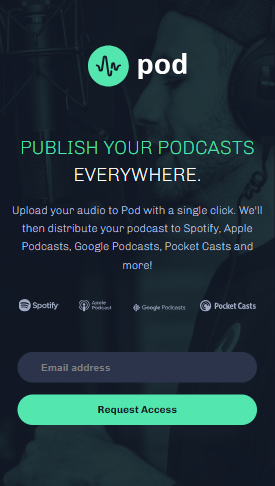
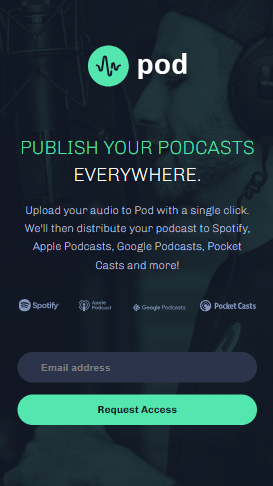
🔧 Fix SVG color and main top padding
- add logo class to logo SVG imgs and filter property to edit SVG colours to match design
- edit main transform property to move slightly further up
- update solution images

diff --git a/index.html b/index.html
@@ -67,7 +67,7 @@
               <img
                 src="assets/desktop/spotify.svg"
                 alt="spotify logo"
-                class="logos--spotify--mob"
+                class="logos--spotify--mob logo"
               >
             </a>
             <a
@@ -78,7 +78,7 @@
               <img
                 src="assets/desktop/apple-podcast.svg"
                 alt="apple podcast logo"
-                class="logos--apple--mob"
+                class="logos--apple--mob logo"
               >
             </a>
             <a
@@ -89,7 +89,7 @@
               <img
                 src="assets/desktop/google-podcasts.svg"
                 alt="google podcasts logo"
-                class="logos--google--mob"
+                class="logos--google--mob logo"
               >
             </a>
             <a
@@ -100,7 +100,7 @@
               <img
                 src="assets/desktop/pocket-casts.svg"
                 alt="pocket casts logo"
-                class="logos--pocketcasts--mob"
+                class="logos--pocketcasts--mob logo"
               >
             </a>
           </div>
@@ -165,7 +165,7 @@
               <img
                 src="assets/desktop/spotify.svg"
                 alt="spotify logo"
-                class="logos--spotify"
+                class="logos--spotify logo"
               >
             </a>
             <a
@@ -176,7 +176,7 @@
               <img
                 src="assets/desktop/apple-podcast.svg"
                 alt="apple podcast logo"
-                class="logos--apple"
+                class="logos--apple logo"
               >
             </a>
             <a
@@ -187,7 +187,7 @@
               <img
                 src="assets/desktop/google-podcasts.svg"
                 alt="google podcasts logo"
-                class="logos--google"
+                class="logos--google logo"
               >
             </a>
             <a
@@ -198,7 +198,7 @@
               <img
                 src="assets/desktop/pocket-casts.svg"
                 alt="pocket casts logo"
-                class="logos--pocketcasts"
+                class="logos--pocketcasts logo"
               >
             </a>
           </div>

diff --git a/css/style.css b/css/style.css
@@ -156,7 +156,7 @@ main {
   position: relative;
   margin: auto;
   padding-top: 8.25rem;
-  transform: translateY(-1.75rem);
+  transform: translateY(-2.25rem);
 }
 
 main::before {
@@ -519,6 +519,12 @@ form {
 
 
 /* ***** LOGOS ***** */
+
+.logo {
+  /*----- change logos SVG color to #2C344B to match design:
+  /* @ https://isotropic.co/tool/hex-color-to-css-filter/ */
+  filter: invert(18%) sepia(42%) saturate(494%) hue-rotate(187deg) brightness(90%) contrast(91%);
+}
 
 /* ))) DEFAULT- DESKTOP, TABLET ((( */
 .logos-wrap--mob {

diff --git a/css/root.css b/css/root.css
@@ -6,6 +6,9 @@
   /* >>> Media Queries Cheat Sheet: 
   /*@ https://gist.github.com/bartholomej/8415655 */
 
+  /* >>> Hex Color To CSS Filter Converter (for SVG):display:
+  /*@ https://isotropic.co/tool/hex-color-to-css-filter/ */
+
 
   /* ===== media queries ===== */
   /* 
